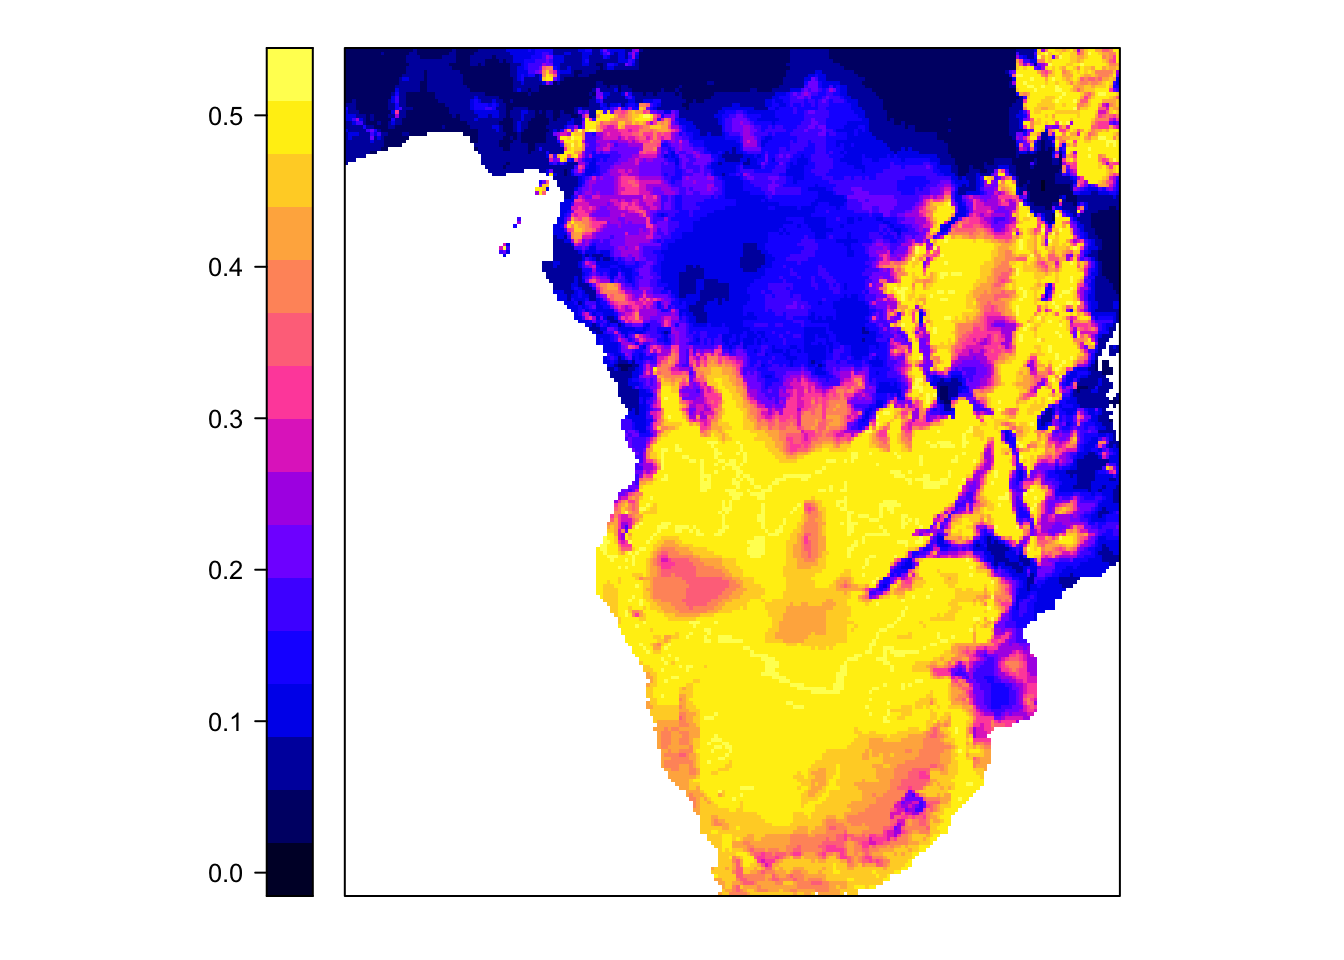
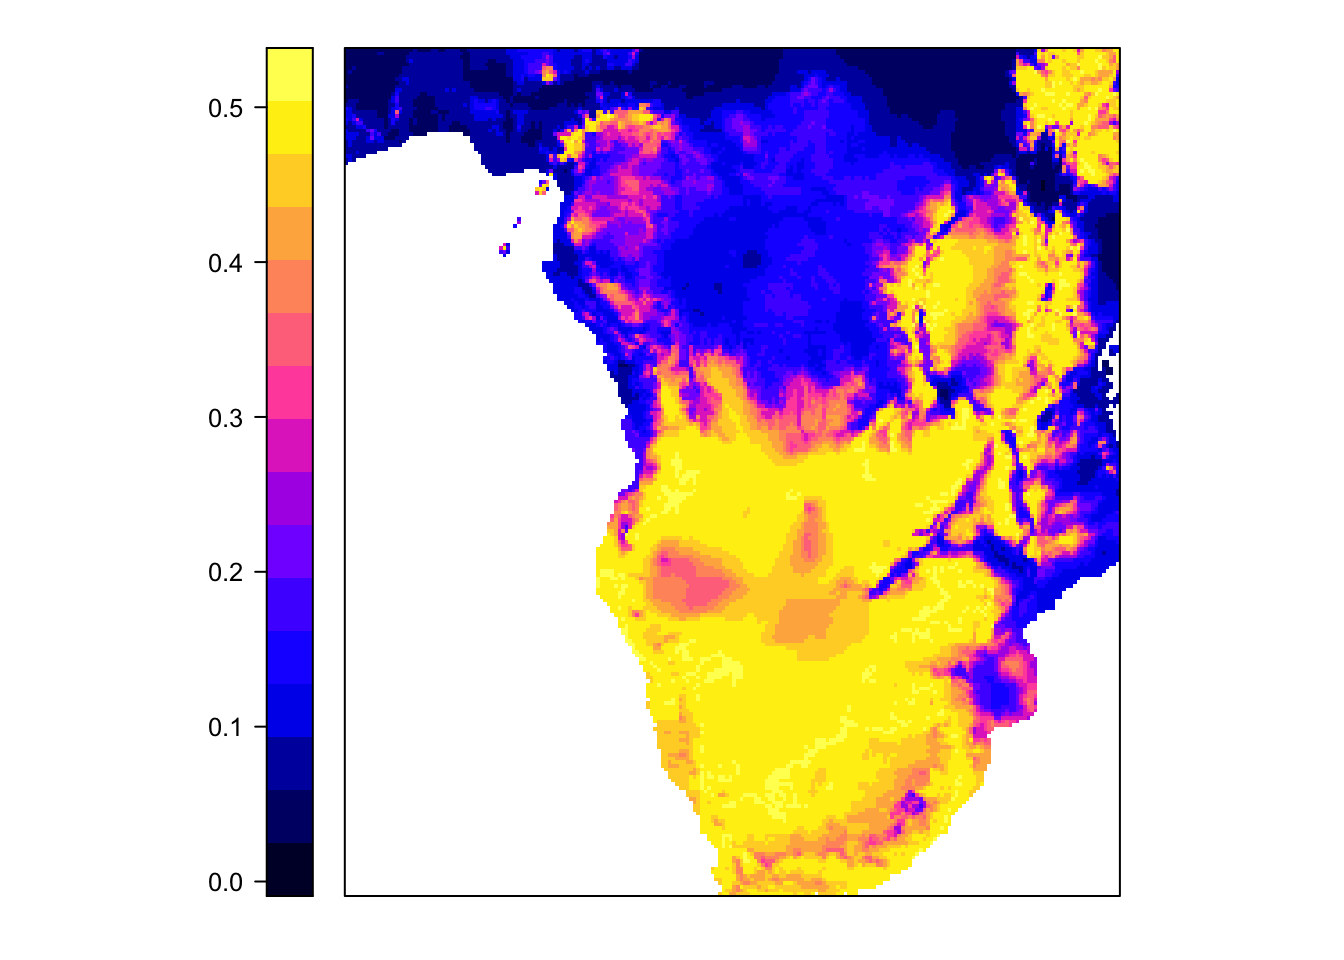
update ML Exercise

diff --git a/docs/6A-Exercise.html b/docs/6A-Exercise.html
@@ -615,7 +615,7 @@ Click here to see the solution
 <i class="callout-icon"></i>
 </div>
 <div class="callout-title-container flex-fill">
-Warning
+Task
 </div>
 </div>
 <div class="callout-body-container callout-body">
@@ -741,10 +741,19 @@ Click here to see the solution
 <span id="cb12-4"><a href="#cb12-4" aria-hidden="true" tabindex="-1"></a><span class="do">## Warning in roc.default(response, predictor, auc = TRUE, ...): Deprecated use a</span></span>
 <span id="cb12-5"><a href="#cb12-5" aria-hidden="true" tabindex="-1"></a><span class="do">## matrix as predictor. Unexpected results may be produced, please pass a numeric</span></span>
 <span id="cb12-6"><a href="#cb12-6" aria-hidden="true" tabindex="-1"></a><span class="do">## vector.</span></span>
-<span id="cb12-7"><a href="#cb12-7" aria-hidden="true" tabindex="-1"></a><span class="do">## Area under the curve: 0.7331</span></span></code><button title="Copy to Clipboard" class="code-copy-button"><i class="bi"></i></button></pre></div>
+<span id="cb12-7"><a href="#cb12-7" aria-hidden="true" tabindex="-1"></a><span class="do">## Area under the curve: 0.7117</span></span></code><button title="Copy to Clipboard" class="code-copy-button"><i class="bi"></i></button></pre></div>
 </div>
-<p>The AUC is a common measure of goodness of fit for binary classification. :::{.callout-warning}</p>
-<p>Tasks:</p>
+<p>The AUC is a common measure of goodness of fit for binary classification.</p>
+<div class="callout callout-style-default callout-warning callout-titled">
+<div class="callout-header d-flex align-content-center">
+<div class="callout-icon-container">
+<i class="callout-icon"></i>
+</div>
+<div class="callout-title-container flex-fill">
+Tasks
+</div>
+</div>
+<div class="callout-body-container callout-body">
 <ul>
 <li><p>Drop some of the highly correlated variables (don’t use all of them).</p></li>
 <li><p>Change architecture of the dnn (using the <code>hidden=c(...)</code>argument)</p></li>
@@ -765,12 +774,12 @@ Click here to see the solution
 <div class="sourceCode cell-code" id="cb14"><pre class="sourceCode r code-with-copy"><code class="sourceCode r"><span id="cb14-1"><a href="#cb14-1" aria-hidden="true" tabindex="-1"></a>predictions <span class="ot">=</span>  <span class="fu">predict</span>(elephant<span class="sc">$</span>predictionData, <span class="at">model =</span> model, <span class="at">type =</span> <span class="st">"response"</span>)</span>
 <span id="cb14-2"><a href="#cb14-2" aria-hidden="true" tabindex="-1"></a><span class="fu">head</span>(<span class="fu">as.data.frame</span>(predictions))</span>
 <span id="cb14-3"><a href="#cb14-3" aria-hidden="true" tabindex="-1"></a><span class="do">##        layer</span></span>
-<span id="cb14-4"><a href="#cb14-4" aria-hidden="true" tabindex="-1"></a><span class="do">## 1 0.04023731</span></span>
-<span id="cb14-5"><a href="#cb14-5" aria-hidden="true" tabindex="-1"></a><span class="do">## 2 0.03726866</span></span>
-<span id="cb14-6"><a href="#cb14-6" aria-hidden="true" tabindex="-1"></a><span class="do">## 3 0.03453494</span></span>
-<span id="cb14-7"><a href="#cb14-7" aria-hidden="true" tabindex="-1"></a><span class="do">## 4 0.03324739</span></span>
-<span id="cb14-8"><a href="#cb14-8" aria-hidden="true" tabindex="-1"></a><span class="do">## 5 0.03082072</span></span>
-<span id="cb14-9"><a href="#cb14-9" aria-hidden="true" tabindex="-1"></a><span class="do">## 6 0.02967771</span></span></code><button title="Copy to Clipboard" class="code-copy-button"><i class="bi"></i></button></pre></div>
+<span id="cb14-4"><a href="#cb14-4" aria-hidden="true" tabindex="-1"></a><span class="do">## 1 0.04989933</span></span>
+<span id="cb14-5"><a href="#cb14-5" aria-hidden="true" tabindex="-1"></a><span class="do">## 2 0.04631172</span></span>
+<span id="cb14-6"><a href="#cb14-6" aria-hidden="true" tabindex="-1"></a><span class="do">## 3 0.04300154</span></span>
+<span id="cb14-7"><a href="#cb14-7" aria-hidden="true" tabindex="-1"></a><span class="do">## 4 0.04146853</span></span>
+<span id="cb14-8"><a href="#cb14-8" aria-hidden="true" tabindex="-1"></a><span class="do">## 5 0.03866339</span></span>
+<span id="cb14-9"><a href="#cb14-9" aria-hidden="true" tabindex="-1"></a><span class="do">## 6 0.03732348</span></span></code><button title="Copy to Clipboard" class="code-copy-button"><i class="bi"></i></button></pre></div>
 </div>
 <p>The advantage of the raster object is that we can directly use it to create a map (the raster object has coordinates for each observation):</p>
 <div class="cell">
@@ -780,7 +789,8 @@ Click here to see the solution
 </div>
 </div>
 <p><strong>Task:</strong> play around with the DNN to improve predictive accuracy. You can check predictive accuracy by looking the AUC of the test data. When improving the predictive power of the model, does the map change?</p>
-<p>:::</p>
+</div>
+</div>
 </section>
 <section id="ml-pipeline" class="level2" data-number="12.5">
 <h2 data-number="12.5" class="anchored" data-anchor-id="ml-pipeline"><span class="header-section-number">12.5</span> ML pipeline</h2>
